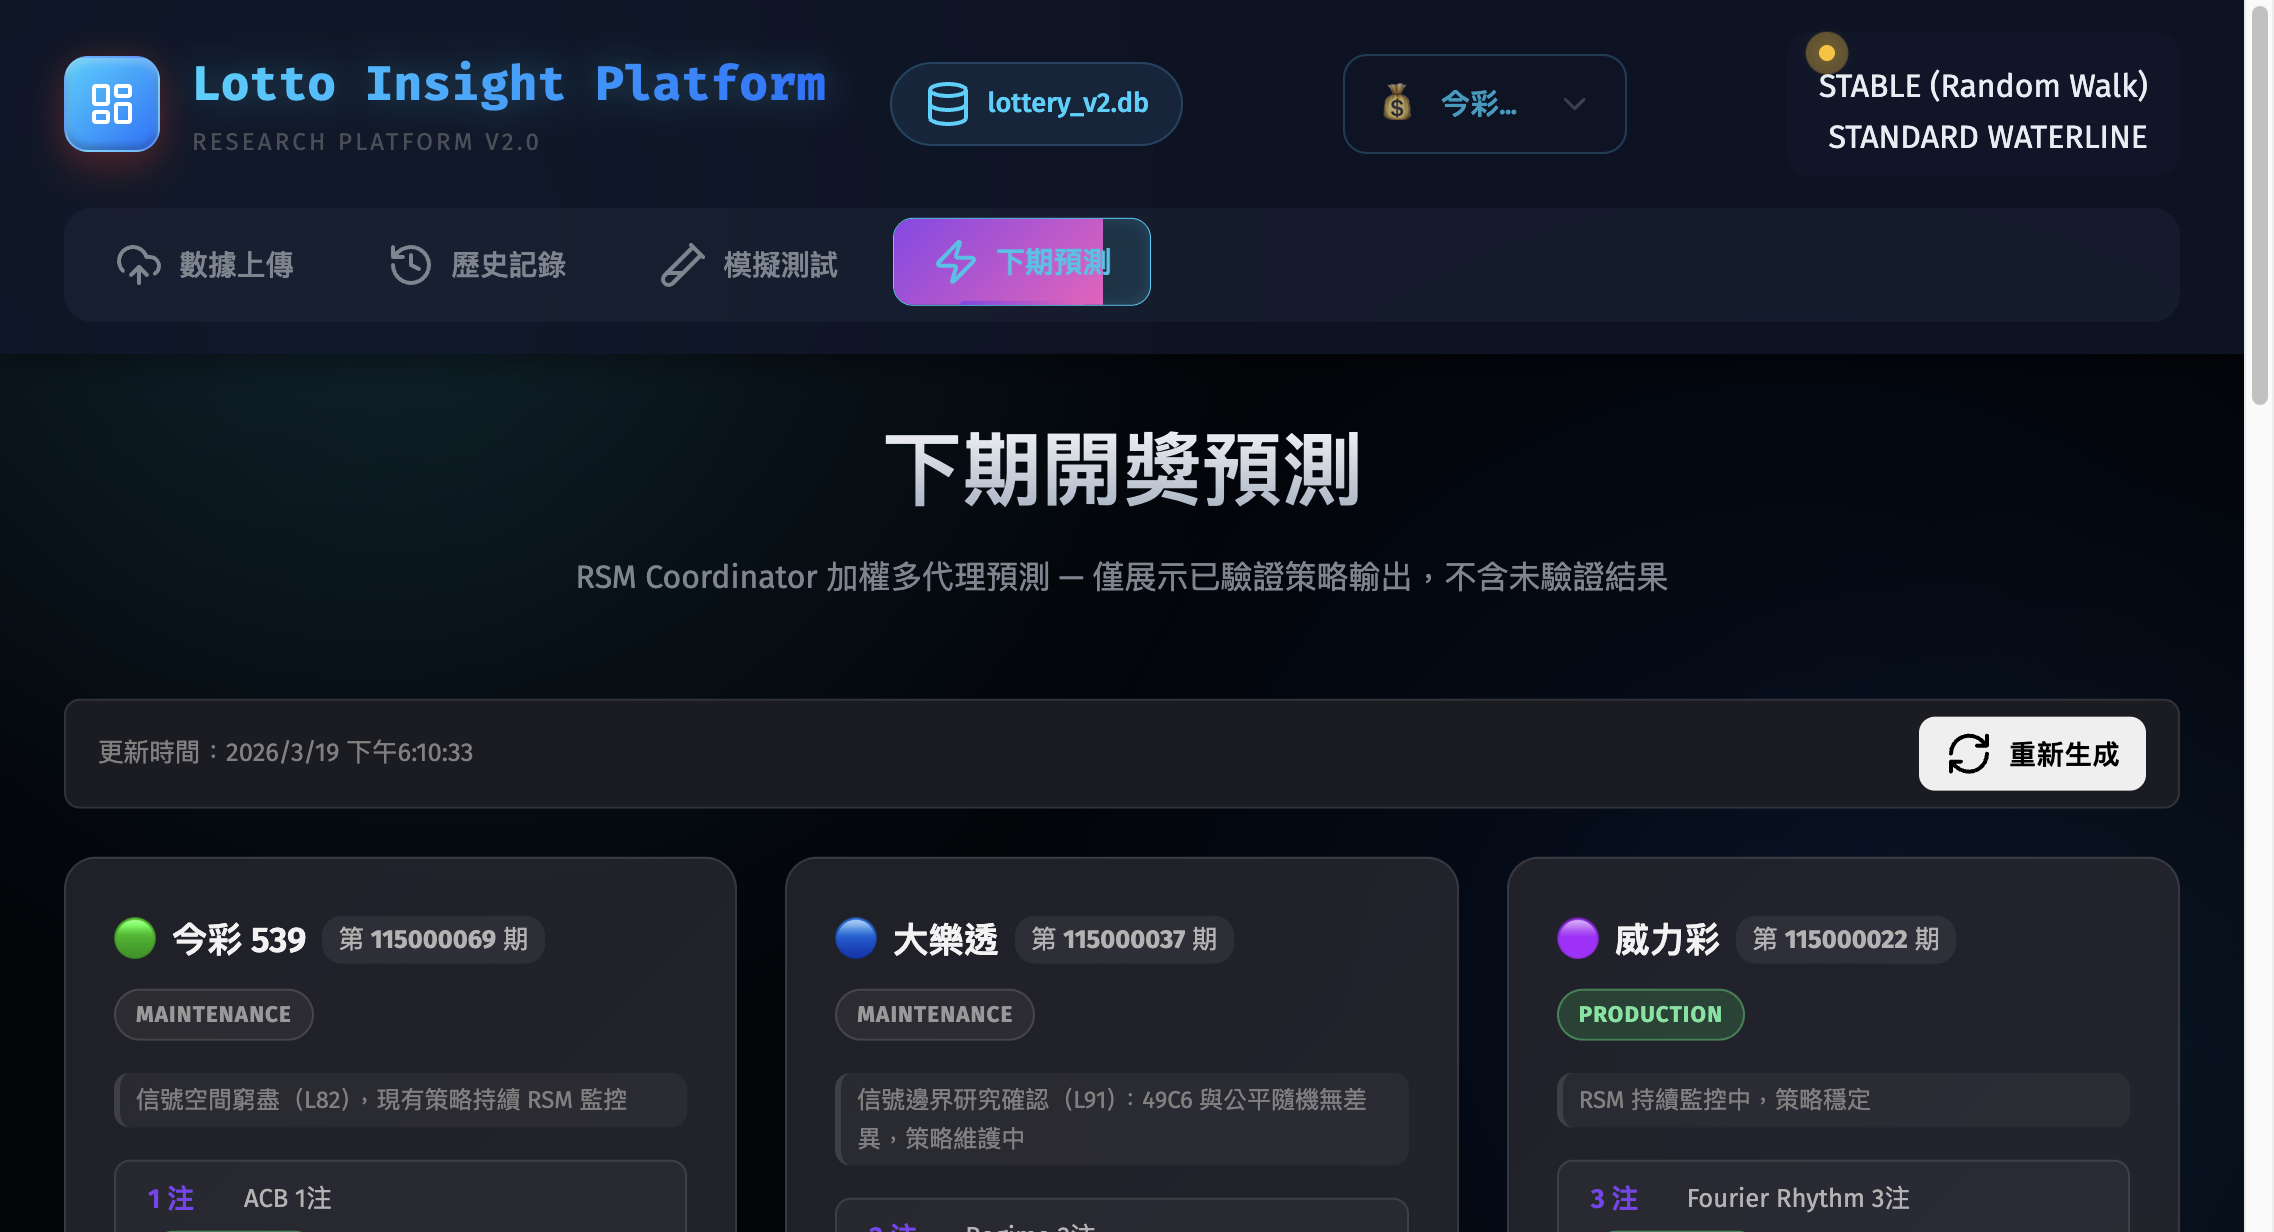
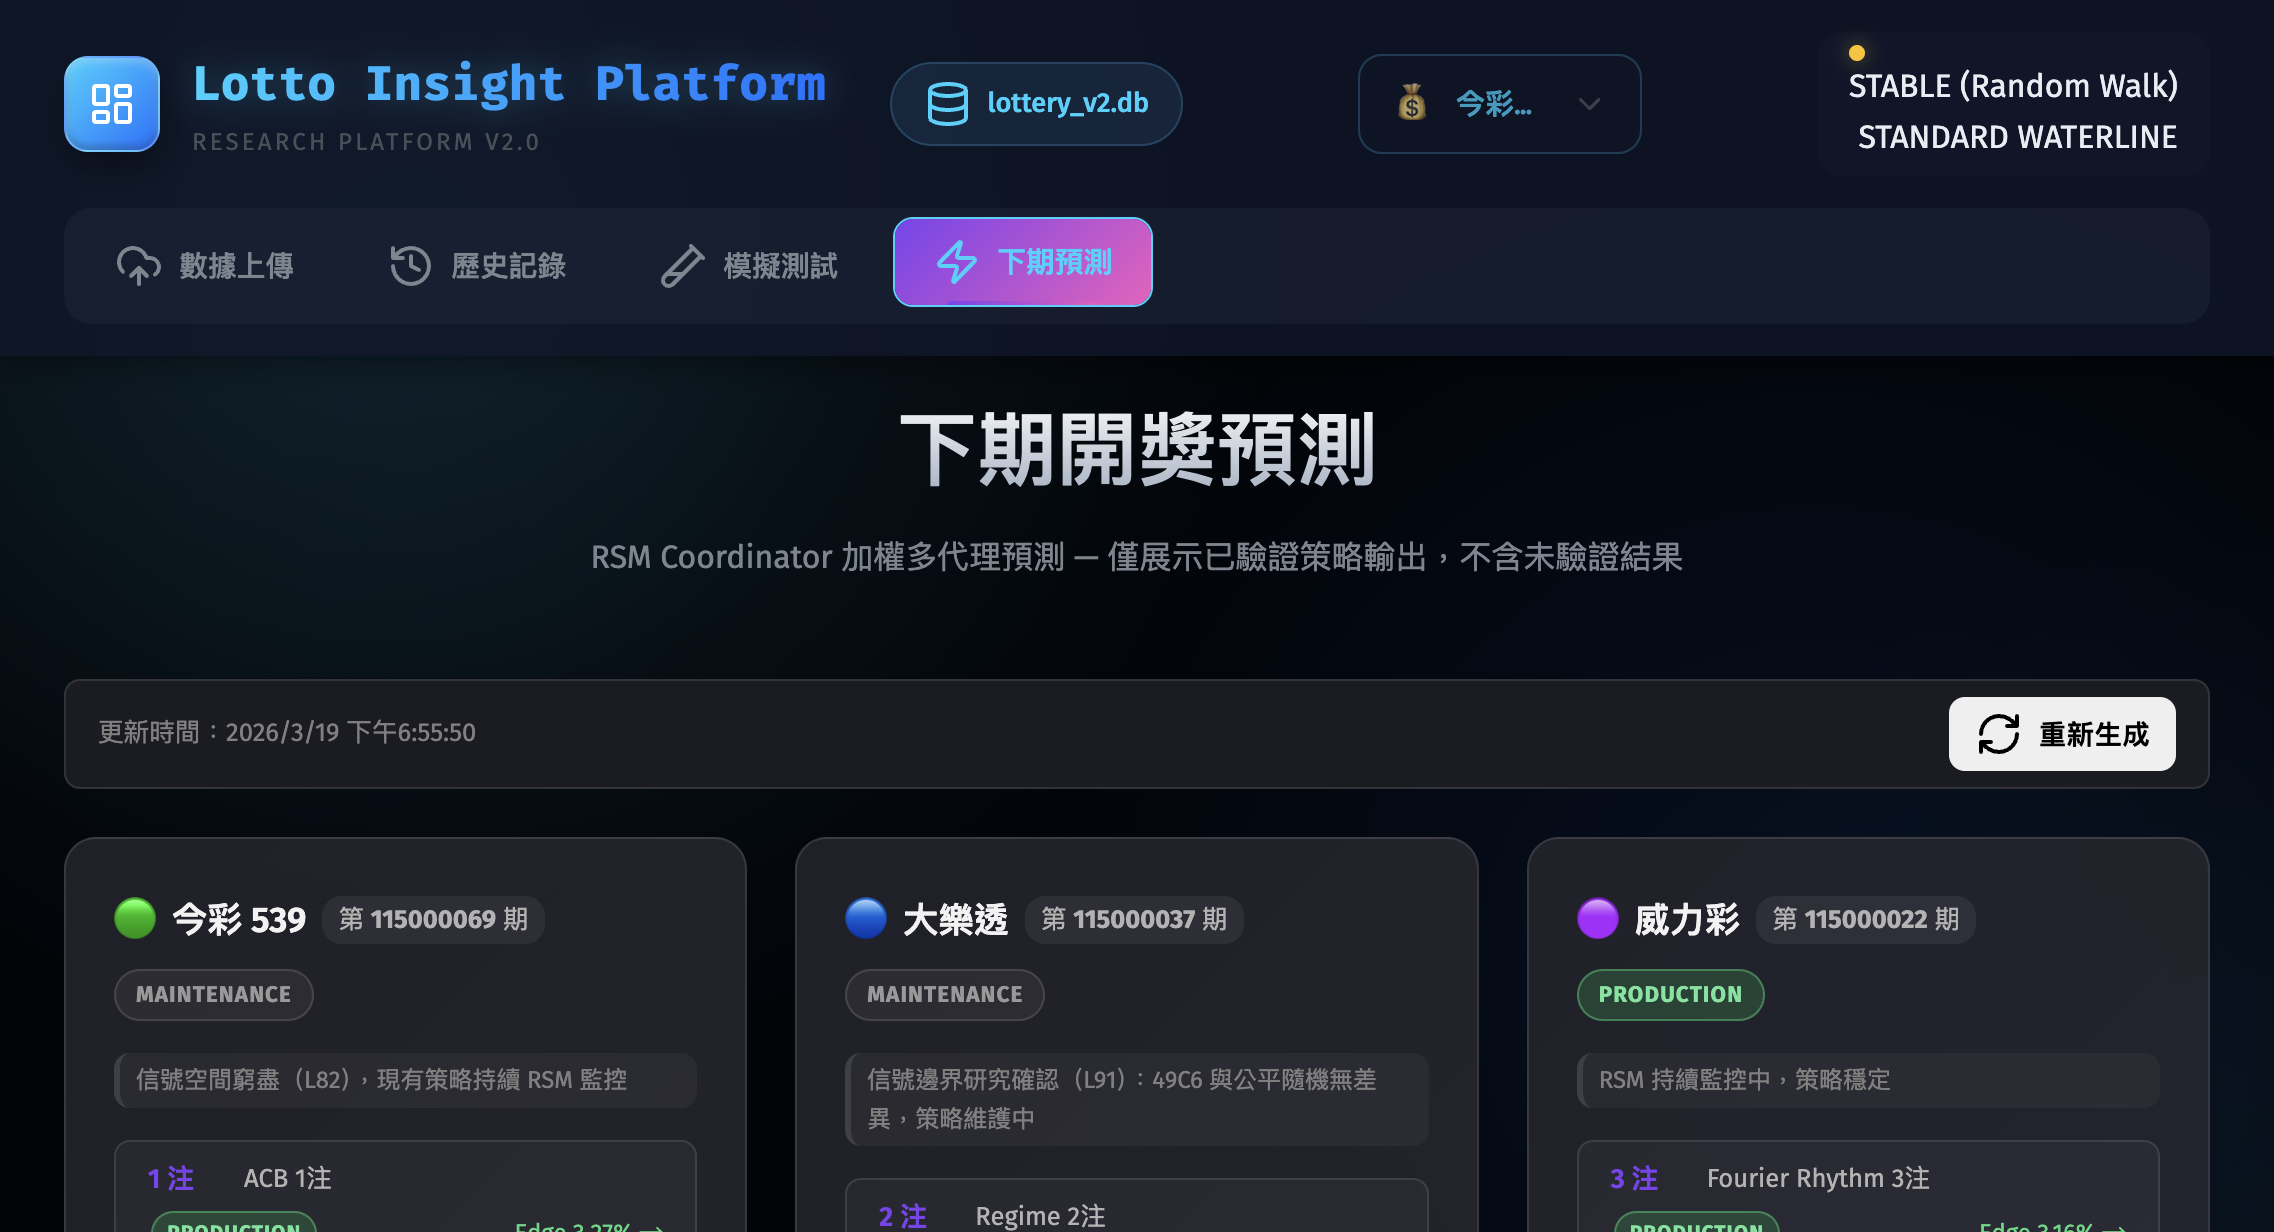
docs: 更新截圖（移除預測號碼畫面）

diff --git a/README.md b/README.md
@@ -9,11 +9,13 @@
 
 ## 系統截圖
 
-| 下期開獎預測 | 歷史開獎記錄 |
+| 下期開獎預測（RSM 策略狀態） | 預測模擬測試 |
 |---|---|
-| ![下期預測](docs/screenshots/next-draw.png) | ![歷史記錄](docs/screenshots/history.png) |
+| ![下期預測](docs/screenshots/next-draw.png) | ![模擬測試](docs/screenshots/simulation.png) |
 
-![數據上傳中心](docs/screenshots/upload.png)
+| 歷史開獎記錄 | 數據上傳中心 |
+|---|---|
+| ![歷史記錄](docs/screenshots/history.png) | ![數據上傳](docs/screenshots/upload.png) |
 
 ---
 
